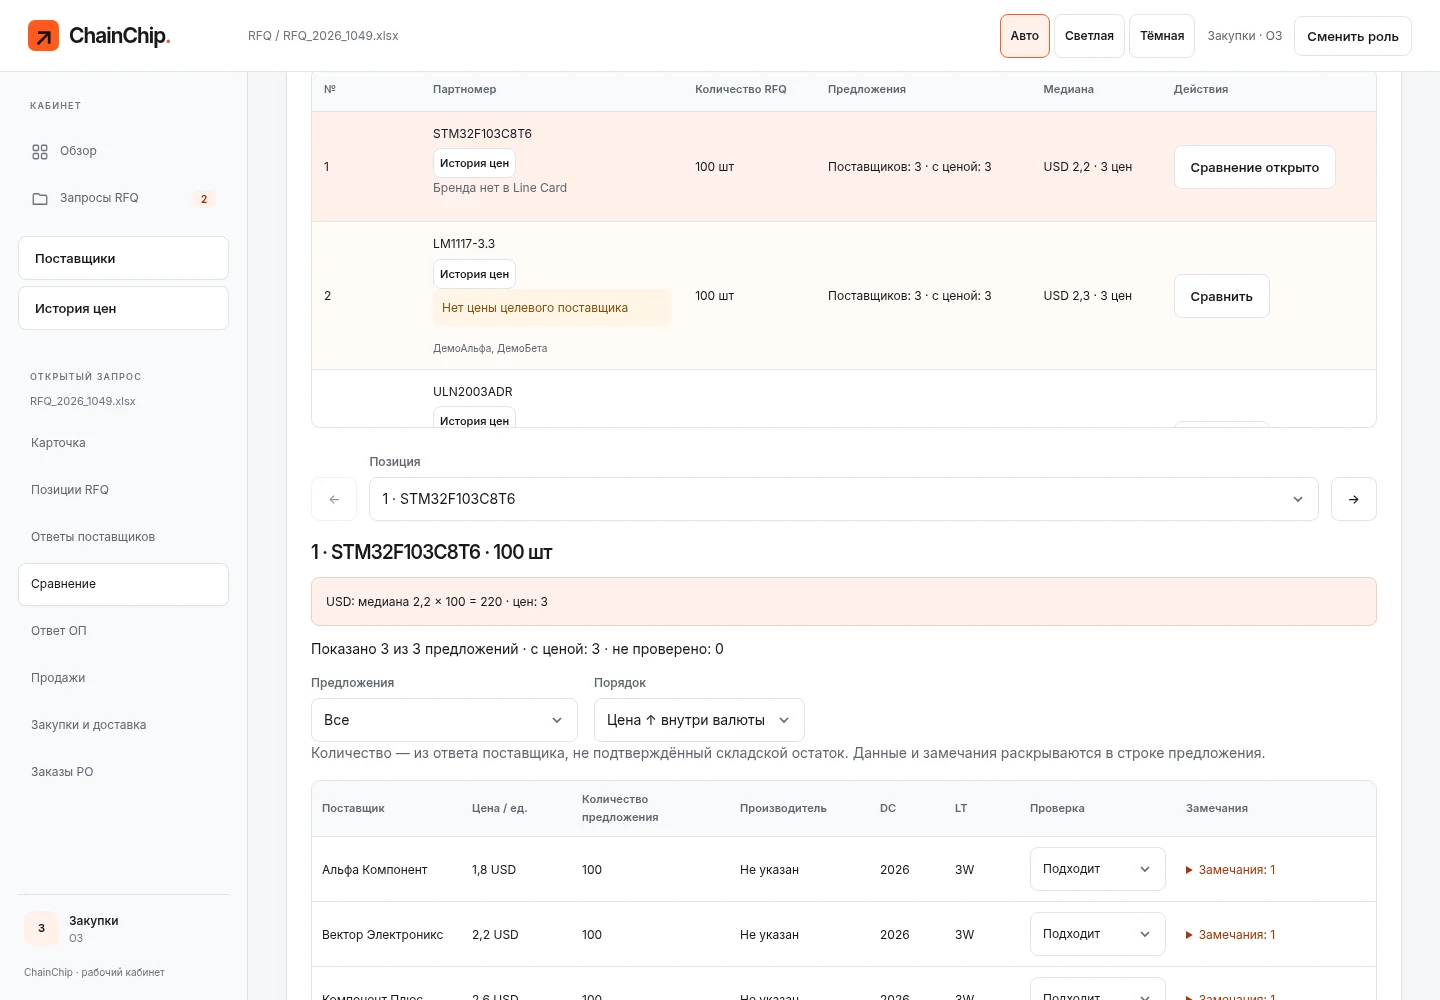
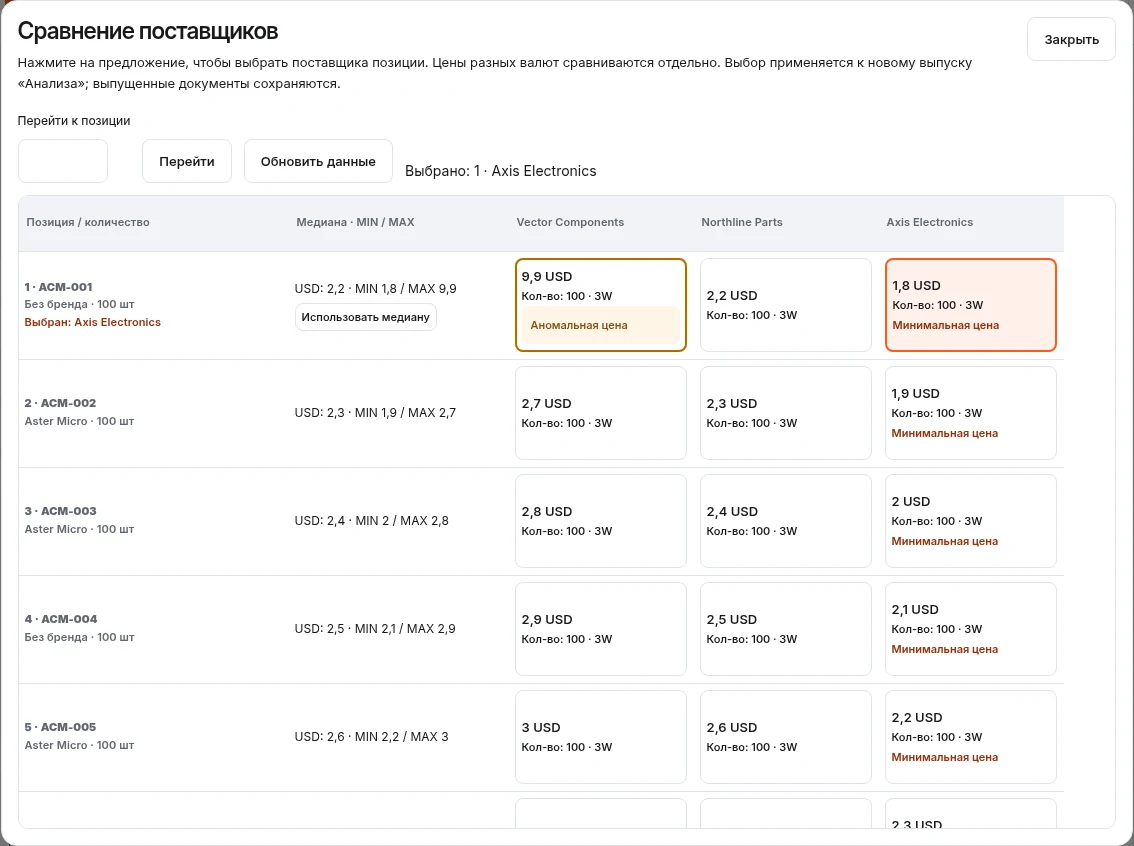
Update project page for request types, price comparison and team reports

diff --git a/index.html b/index.html
@@ -6,7 +6,7 @@
     <meta name="color-scheme" content="light" />
     <meta
       name="description"
-      content="ChainChip — веб-приложение для продаж и закупок электронных компонентов: RFQ, предложения поставщиков, согласование, продажи частями и заказы PO."
+      content="ChainChip — веб-приложение для продаж и закупок электронных компонентов: RFQ, предложения поставщиков, согласование, общая база клиентов, отчёты сотрудников и заказы PO."
     />
     <meta
       property="og:title"
@@ -32,7 +32,7 @@
       type="font/woff2"
       crossorigin
     />
-    <link rel="stylesheet" href="styles.css?v=20261104-2" />
+    <link rel="stylesheet" href="styles.css?v=20261105-29" />
   </head>
   <body>
     <a class="skip" href="#main">К содержанию</a>
@@ -44,7 +44,7 @@
         ></a
       >
       <nav aria-label="Основная навигация">
-        <a href="#workflow">Процесс</a><a href="#engineering">Устройство</a
+        <a href="#workflow">Процесс</a><a href="#team">Клиенты и отчёты</a><a href="#engineering">Устройство</a
         ><a href="#decisions">Решения</a>
         <a
           class="nav-app"
@@ -119,22 +119,24 @@
             ><span class="shot-meta">Экран приложения</span>
           </div>
           <a
-            href="assets/comparison.webp"
+            href="assets/comparison.webp?v=20261105-29"
             target="_blank"
             rel="noopener noreferrer"
             aria-label="Открыть скриншот сравнения предложений в полном размере"
             ><img
-              src="assets/comparison.webp"
-              width="1440"
-              height="1000"
-              alt="Экран сравнения: позиции запроса, предложения трёх поставщиков, медианная цена и проверка предложений."
+              src="assets/comparison.webp?v=20261105-29"
+              width="1134"
+              height="846"
+              alt="Широкая таблица предложений: поставщики по колонкам, позиции по строкам, медиана, MIN и MAX, выбор цены для Анализа."
               fetchpriority="high"
           /></a>
           <figcaption>
-            Для каждой позиции видны предложения поставщиков, цены и результат
-            проверки закупщиком. Нажмите на снимок, чтобы рассмотреть экран.
+            Предложения поставщиков рядом: можно сравнить цены и выбрать
+            предложение для позиции. Нажмите на снимок, чтобы рассмотреть таблицу.
           </figcaption>
         </figure>
+        <p class="release-note">Новые экраны сняты из обновления 29, подготовленного к установке.
+          Открытая версия приложения обновляется отдельно; её интерфейс пока может отличаться.</p>
       </section>
       <section class="context wrap section" aria-labelledby="context-title">
         <div class="section-label"><span>Задача</span></div>
@@ -200,8 +202,9 @@
               <span class="step-number">01</span>
               <h3>Запрос клиента</h3>
               <p>
-                Продажи загружают Excel, указывают клиента, закупщика и срок.
-                Файл обрабатывается в фоне, ошибки видны по строкам.
+                Продажи загружают Excel и выбирают тип: запрос, тендер или заказ.
+                У запроса можно уточнить КП или НМЦ. В карточке — клиент,
+                закупщик и срок ответа.
               </p>
               <span class="step-owner">ОП · Продажи</span>
             </li>
@@ -209,8 +212,9 @@
               <span class="step-number">02</span>
               <h3>Предложения</h3>
               <p>
-                Закупщик загружает ответы, проверяет совпадения и сравнивает
-                цены внутри валют. Исходные файлы остаются доступны.
+                Закупщик загружает ответы и сравнивает поставщиков в одной
+                таблице. По каждой валюте видны MIN, MAX и медиана;
+                необычные цены выделяются для проверки.
               </p>
               <span class="step-owner">ОЗ · Закупки</span>
             </li>
@@ -218,8 +222,9 @@
               <span class="step-number">03</span>
               <h3>Согласование</h3>
               <p>
-                Из выбранных данных формируется Excel-ответ. Продажи могут
-                согласовать его или вернуть на доработку.
+                В Анализ попадает выбранное предложение, без явного выбора —
+                медиана. Продажи согласуют выпуск или возвращают его
+                на доработку. Уже выпущенный документ сохраняет свой расчёт.
               </p>
               <span class="step-owner">ОЗ → ОП</span>
             </li>
@@ -243,9 +248,43 @@
             </li>
           </ol>
           <p class="workflow-note">
-            Руководитель закупок видит запросы и отчёты, может контролировать
-            назначения. Сотрудники работают со своими доступными запросами.
+            Запросы можно отбирать по типу, а строки таблиц — по позиции,
+            производителю и другим полям. Фильтры меняют просмотр; итоги RFQ
+            и выгружаемый Анализ остаются по всему запросу.
           </p>
+        </div>
+      </section>
+      <section id="team" class="team wrap section" aria-labelledby="team-title">
+        <div class="section-label"><span>Клиенты и отчёты</span></div>
+        <div class="section-content">
+          <h2 id="team-title">История клиента и работа сотрудников</h2>
+          <div class="team-notes">
+            <article>
+              <h3>Что клиент уже покупал</h3>
+              <p>В общей базе видны подтверждённые покупки: позиции, количества,
+                клиентские цены и даты. При повторном обращении можно проверить
+                прошлую поставку и открыть связанные документы.</p>
+              <p>Справочник доступен всем сотрудникам. Заменять отдельные вложения
+                может их автор или администратор; исходные RFQ и выпущенные
+                документы сохраняются для истории.</p>
+            </article>
+            <article>
+              <h3>Что сделано за выбранный период</h3>
+              <p>Сотрудник выбирает показатели, период и группировку, получает
+                отчёт на экране или в Excel. Можно посмотреть созданные запросы,
+                загрузки ответов, согласования, продажи, закупочные операции и PO.</p>
+              <p>РОЗ и генеральный директор могут построить отчёт по сотруднику
+                или отделу. Переназначение запроса не переносит уже выполненную
+                работу в отчёт другого закупщика.</p>
+            </article>
+          </div>
+          <figure class="product-shot report-shot">
+            <div class="shot-bar"><span class="shot-dot" aria-hidden="true"></span><span>ChainChip / Отчёт о работе</span></div>
+            <a href="assets/reports.webp?v=20261105-29" target="_blank" rel="noopener noreferrer"
+              aria-label="Открыть скриншот отчёта о работе в полном размере"><img src="assets/reports.webp?v=20261105-29"
+              width="1200" height="352" loading="lazy" alt="Результат отчёта по отделам: выбранные показатели в таблице, период и кнопка скачивания Excel." /></a>
+            <figcaption>Показатели выбираются перед построением отчёта. Тот же набор данных можно скачать в Excel.</figcaption>
+          </figure>
         </div>
       </section>
       <section
@@ -362,11 +401,27 @@
                 <h3>Права на запросы и документы</h3>
                 <p>
                   API проверяет сотрудника, роль, владельца запроса и назначение
-                  закупщика. Документы выдаются через проверку доступа, а не из
-                  публичной папки.
+                  закупщика. Общий справочник клиентов доступен всем сотрудникам;
+                  право менять вложения проверяется отдельно. Файлы выдаются
+                  через API с проверкой доступа.
                 </p>
               </div>
               <span class="decision-tag">Авторизация</span>
+            </article>
+            <article>
+              <div><h3>Выбор цены и снимок выпуска</h3>
+                <p>MIN, MAX и медиана считаются отдельно по валютам.
+                  При трёх действующих предложениях цена ниже половины или выше
+                  двойной медианы выделяется, но остаётся доступной для выбора.
+                  Новый выпуск сохраняет выбранные цены и параметры расчёта.</p></div>
+              <span class="decision-tag">Расчёт и история</span>
+            </article>
+            <article>
+              <div><h3>Авторство в отчётах</h3>
+                <p>Отчёт учитывает сотрудника и дату действия, а не текущего
+                  ответственного за запрос. Старые загрузки без записанного автора
+                  не приписываются новому владельцу.</p></div>
+              <span class="decision-tag">Учёт действий</span>
             </article>
           </div>
         </div>
@@ -377,8 +432,9 @@
           <div class="section-heading">
             <h2 id="screens-title">Карточка запроса</h2>
             <p>
-              Из карточки можно перейти к позициям, предложениям, согласованию и
-              закупке. При передаче запроса сохраняются назначение и срок.
+              Тип заявки выбирается до передачи в закупки. В карточке также
+              остаются клиент, ответственный, срок и комментарий — вместе
+              с переходами к позициям и следующим этапам.
             </p>
           </div>
           <figure class="product-shot secondary-shot">
@@ -387,20 +443,20 @@
               ><span>ChainChip / Карточка запроса</span>
             </div>
             <a
-              href="assets/request.webp"
+              href="assets/request.webp?v=20261105-29"
               target="_blank"
               rel="noopener noreferrer"
               aria-label="Открыть скриншот карточки запроса в полном размере"
               ><img
-                src="assets/request.webp"
-                alt="Карточка RFQ с клиентом, назначенным закупщиком, сроком и этапами обработки запроса."
-                width="1440"
-                height="1000"
+                src="assets/request.webp?v=20261105-29"
+                alt="Карточка тендера с выбором типа заявки, клиентом, закупщиком, сроком и комментарием."
+                width="1066"
+                height="511"
                 loading="lazy"
             /></a>
             <figcaption>
-              Клиент, ответственный закупщик, срок и комментарий — основные
-              данные перед передачей запроса в закупки.
+              Основной тип обязателен: запрос, тендер или заказ.
+              КП и НМЦ — необязательные уточнения для запроса.
             </figcaption>
           </figure>
         </div>
@@ -418,6 +474,10 @@
             права сотрудников и объёмы обработки.
           </p>
           <ul class="limits">
+            <li>
+              Текущий шаблон Анализа рассчитывается в USD и RUB с фиксированными
+              курсом и коэффициентом. Другие валюты требуют отдельного расчёта.
+            </li>
             <li>
               Отправка заказа поставщику выполняется сотрудником после
               скачивания файла.

diff --git a/styles.css b/styles.css
@@ -1411,3 +1411,11 @@ figcaption {
     display: inline-flex;
   }
 }
+
+/* Update 29: the same reading rhythm for client history and employee reports. */
+.release-note { max-width:880px; margin:16px 0 0; font-size:13px; line-height:1.7; color:var(--muted); }
+.team-notes { display:grid; grid-template-columns:repeat(2,minmax(0,1fr)); gap:32px; margin-top:28px; }
+.team-notes h3 { margin:0 0 14px; font-size:20px; line-height:1.45; color:var(--ink); }
+.team-notes p { color:#38473c; font-size:15px; line-height:1.85; margin:0 0 16px; }
+.report-shot { margin:28px 0 0; }
+@media(max-width:720px) { .team-notes { grid-template-columns:1fr; gap:18px; } }

diff --git a/README.md b/README.md
@@ -10,9 +10,15 @@
 
 - Импортирует RFQ и предложения из Excel, показывает ошибки обработки.
 - Разделяет действия продаж, закупок и руководителя.
-- Позволяет сравнивать предложения по позиции и внутри валюты.
+- Различает запросы (КП / НМЦ), тендеры и заказы; фильтрует списки и предпросмотры.
+- Показывает поставщиков в общей таблице, MIN / MAX / медиану и предупреждения о необычных ценах.
+- Переносит выбранную цену в новый Анализ; без явного выбора использует медиану.
+- Собирает подтверждённые покупки и файлы в общем справочнике клиентов.
+- Формирует собственные отчёты сотрудников и отчёты руководителей по сотруднику или отделу, на экране и в XLSX.
 - Формирует Excel-ответы и версии заказов PO.
 - Учитывает частичные продажи, закупочные партии и историю отмен.
+
+Новые экраны на странице сняты из подготовленного обновления 29. Открытый экземпляр приложения обновляется отдельно, поэтому набор доступных экранов может отличаться.
 
 ## Техническая часть
 
